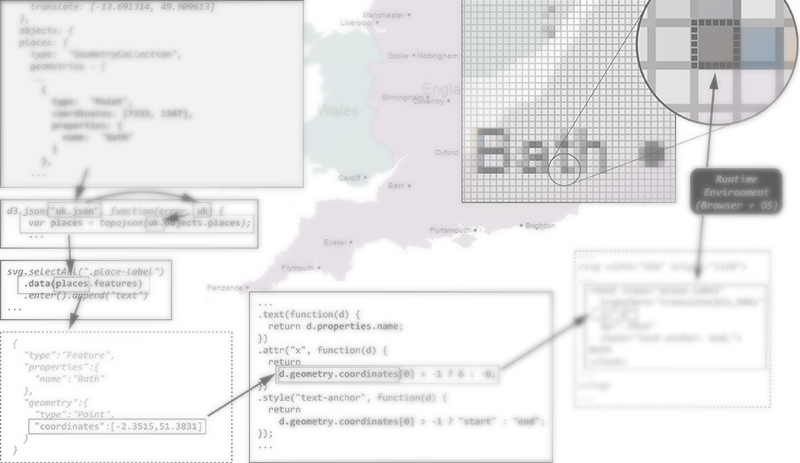
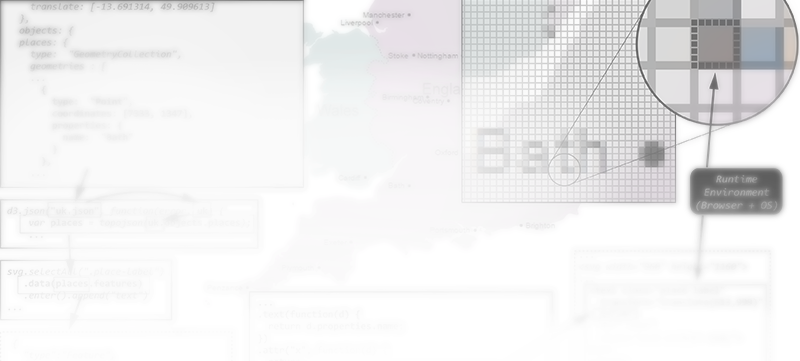
fine tuning

diff --git a/_sass/style.scss b/_sass/style.scss
@@ -34,10 +34,10 @@ body {
     }
 
 h1#codegeographic {
-    height: 463px;
+    height: 361px;
     background-image: url(/images/bath.png);
     font-size: 3.5em;
-    padding-top: 40px;
+    padding-top: 100px;
     text-shadow: white 0px 0px 10px;
 }
 
